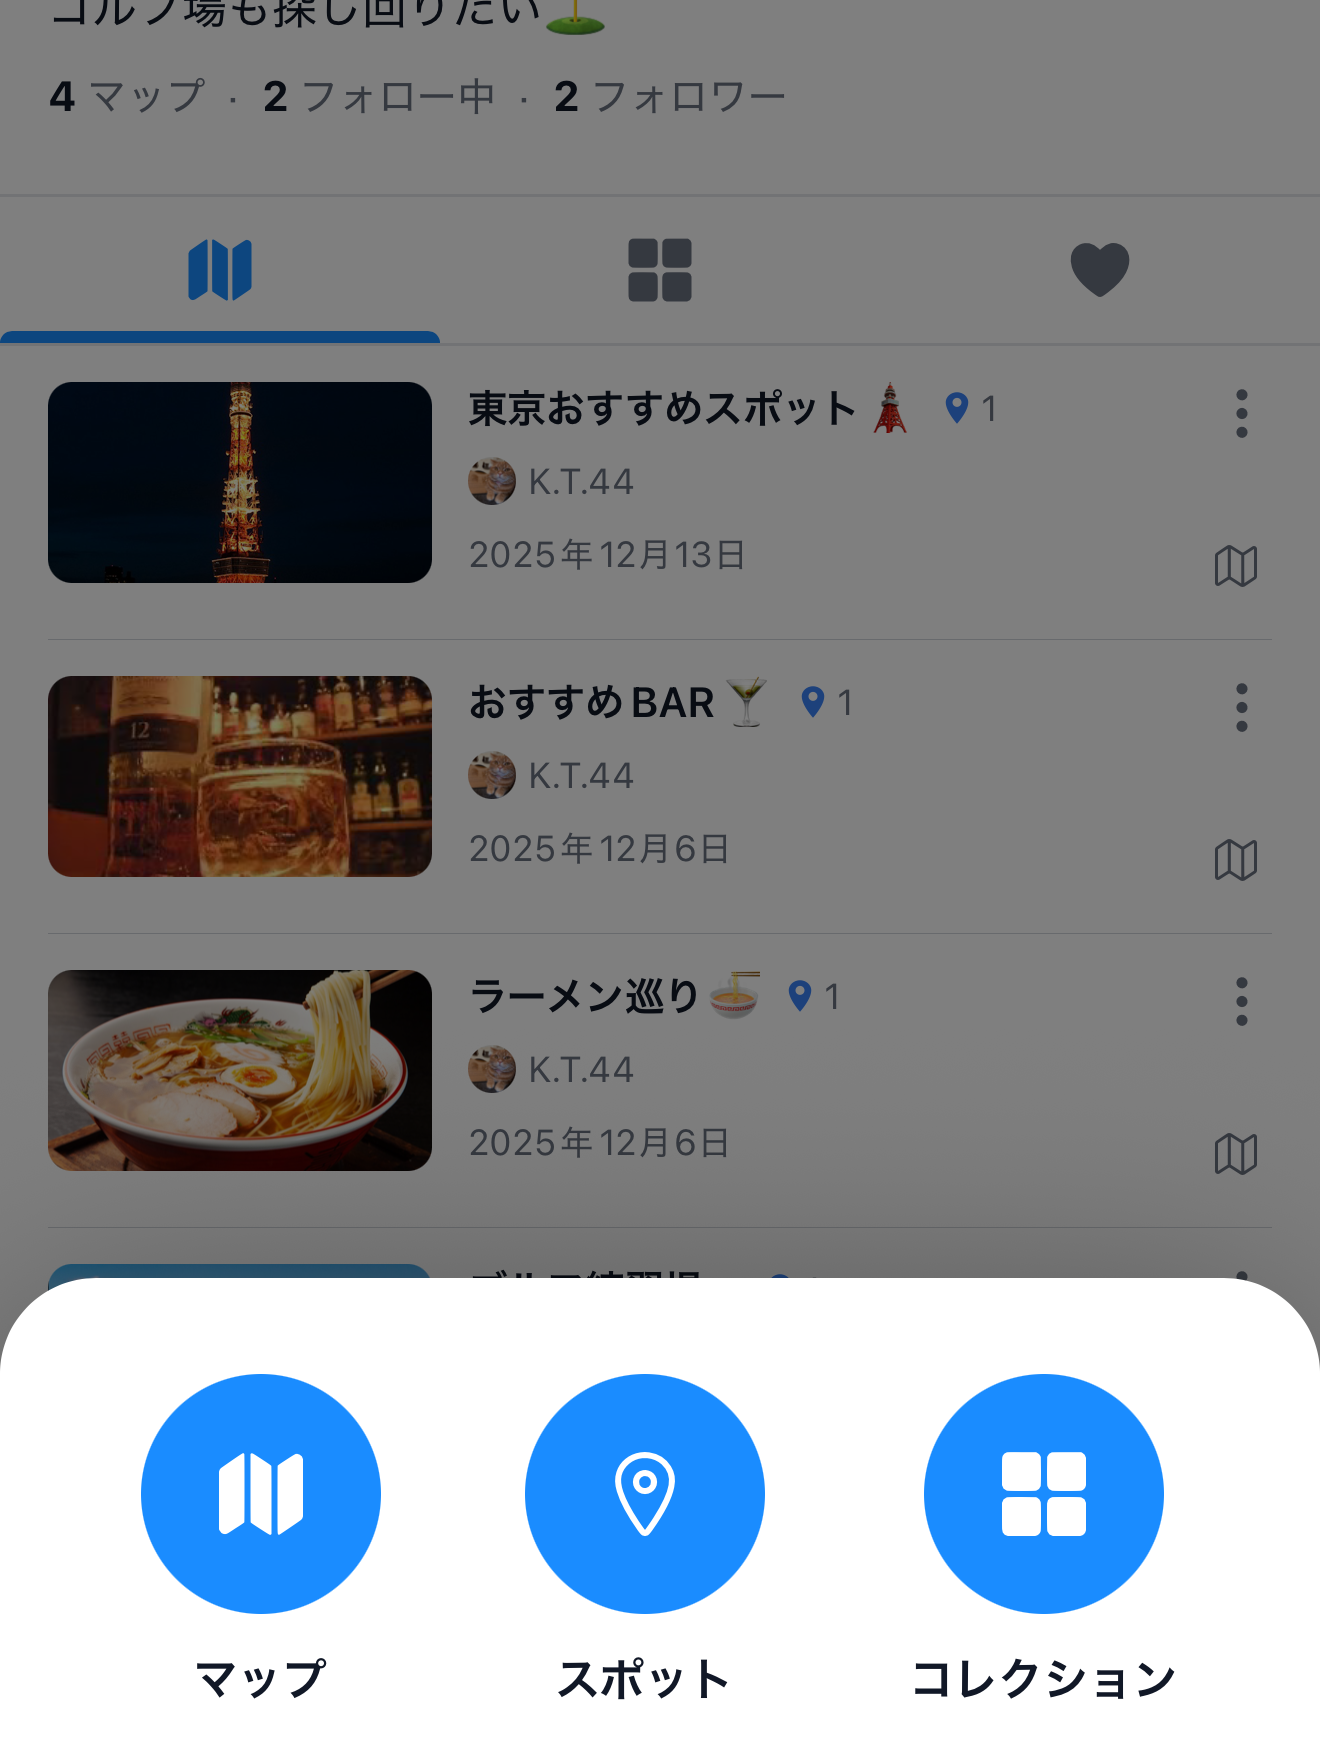
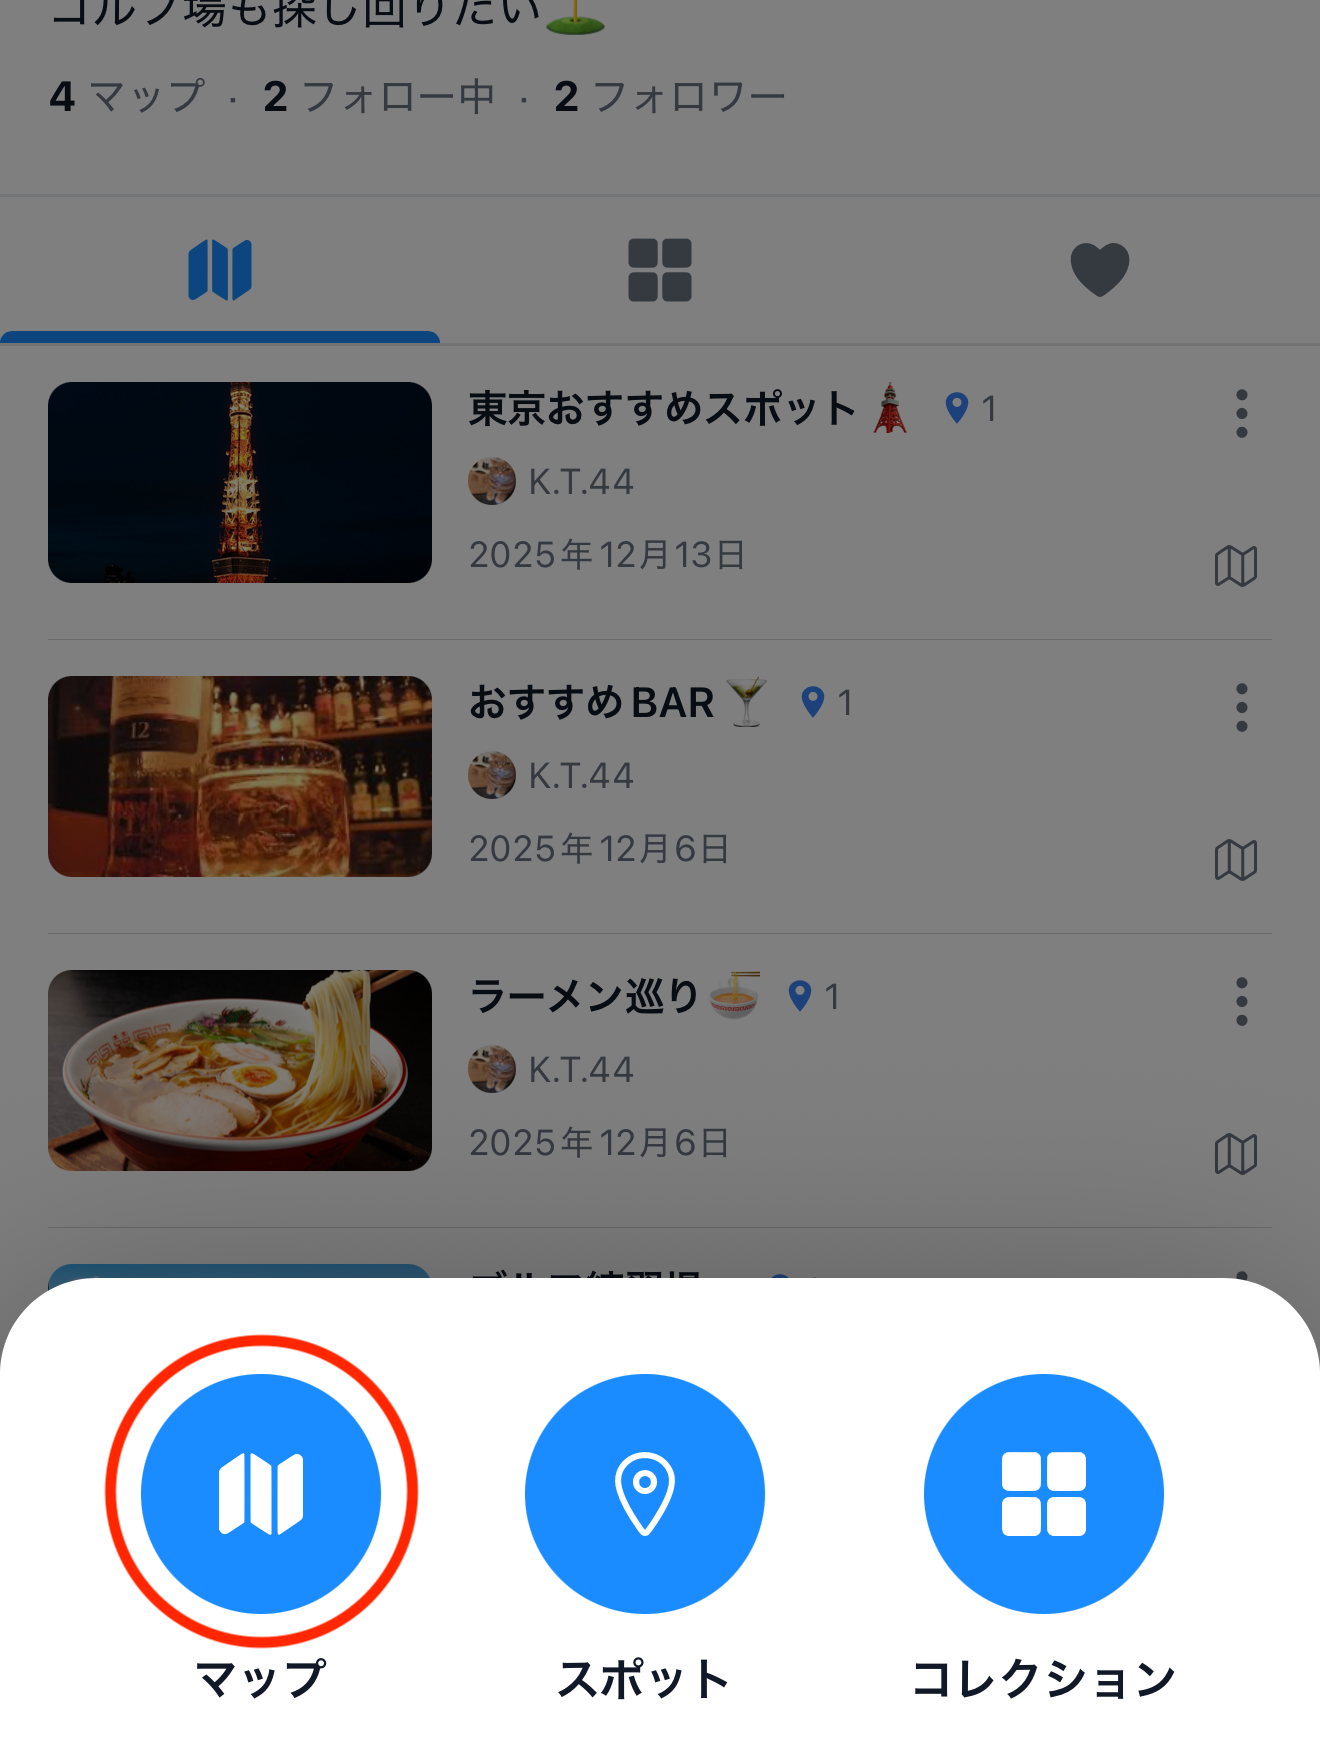
fix: 赤丸アノテーションを画像に直接描き込み、CSSオーバーレイを削除

diff --git a/apps/web/app/guide/create-map/page.tsx b/apps/web/app/guide/create-map/page.tsx
@@ -7,22 +7,12 @@ export const metadata: Metadata = {
     "街コレでオリジナルのマップを作成する方法をステップごとに解説します。",
 };
 
-interface Annotation {
-  /** 左からの位置（%） */
-  x: number;
-  /** 上からの位置（%） */
-  y: number;
-  /** 円のサイズ（px） */
-  size: number;
-}
-
 interface GuideStepProps {
   step: number;
   title: string;
   description: string;
   imageSrc: string;
   imageAlt: string;
-  annotation?: Annotation;
 }
 
 function GuideStep({
@@ -31,7 +21,6 @@ function GuideStep({
   description,
   imageSrc,
   imageAlt,
-  annotation,
 }: GuideStepProps) {
   return (
     <div className="mb-12 last:mb-0">
@@ -48,27 +37,11 @@ function GuideStep({
       </p>
       {/* スクリーンショット */}
       <div className="flex justify-center">
-        <div className="relative max-w-[320px] w-full">
-          <img
-            src={imageSrc}
-            alt={imageAlt}
-            className="rounded-xl shadow-sm w-full"
-          />
-          {annotation && (
-            <div
-              className="absolute pointer-events-none"
-              style={{
-                left: `${annotation.x}%`,
-                top: `${annotation.y}%`,
-                width: annotation.size,
-                height: annotation.size,
-                transform: "translate(-50%, -50%)",
-                border: "3px solid #EF4444",
-                borderRadius: "50%",
-              }}
-            />
-          )}
-        </div>
+        <img
+          src={imageSrc}
+          alt={imageAlt}
+          className="rounded-xl shadow-sm max-w-[320px] w-full"
+        />
       </div>
     </div>
   );
@@ -108,7 +81,6 @@ export default function CreateMapGuidePage() {
             description="画面下部の「＋」ボタンをタップすると、作成メニューが表示されます。どのタブからでもアクセスできます。"
             imageSrc="/images/guide/create_map/create_map_01.png"
             imageAlt="画面下部の＋ボタン"
-            annotation={{ x: 50, y: 93, size: 48 }}
           />
 
           <GuideStep
@@ -117,7 +89,6 @@ export default function CreateMapGuidePage() {
             description="作成メニューから「マップ」を選択しましょう。スポットやコレクションもここから作成できます。"
             imageSrc="/images/guide/create_map/create_map_02.png"
             imageAlt="作成メニュー（マップ・スポット・コレクション）"
-            annotation={{ x: 20, y: 83, size: 64 }}
           />
 
           <GuideStep
